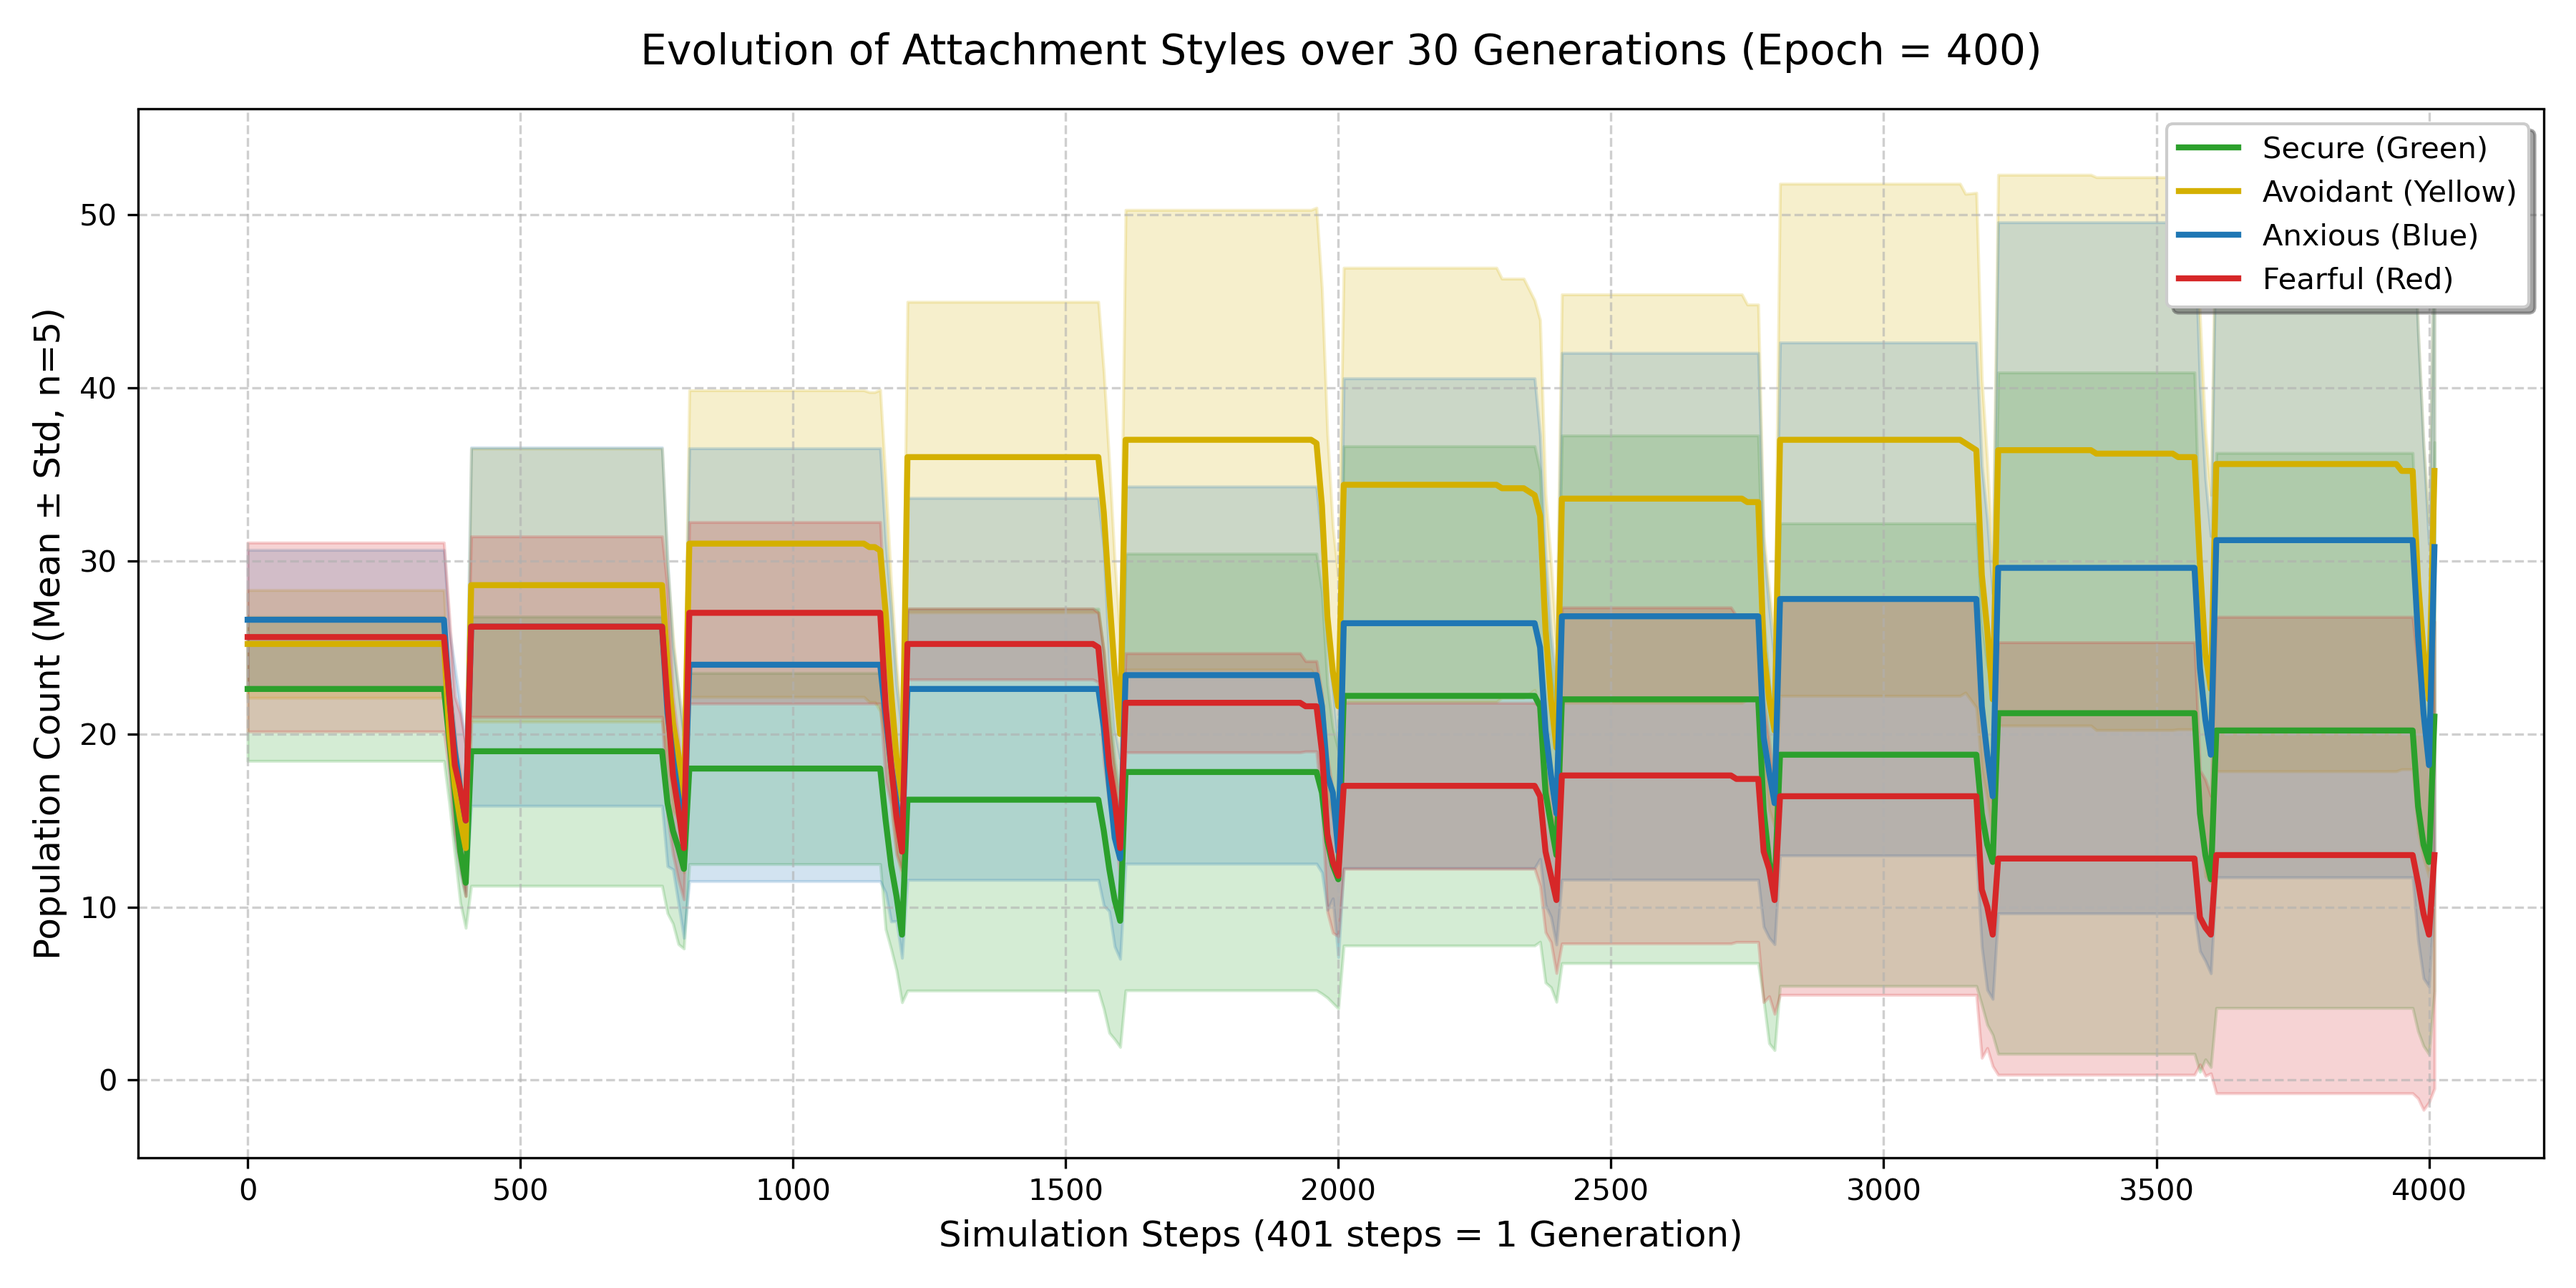
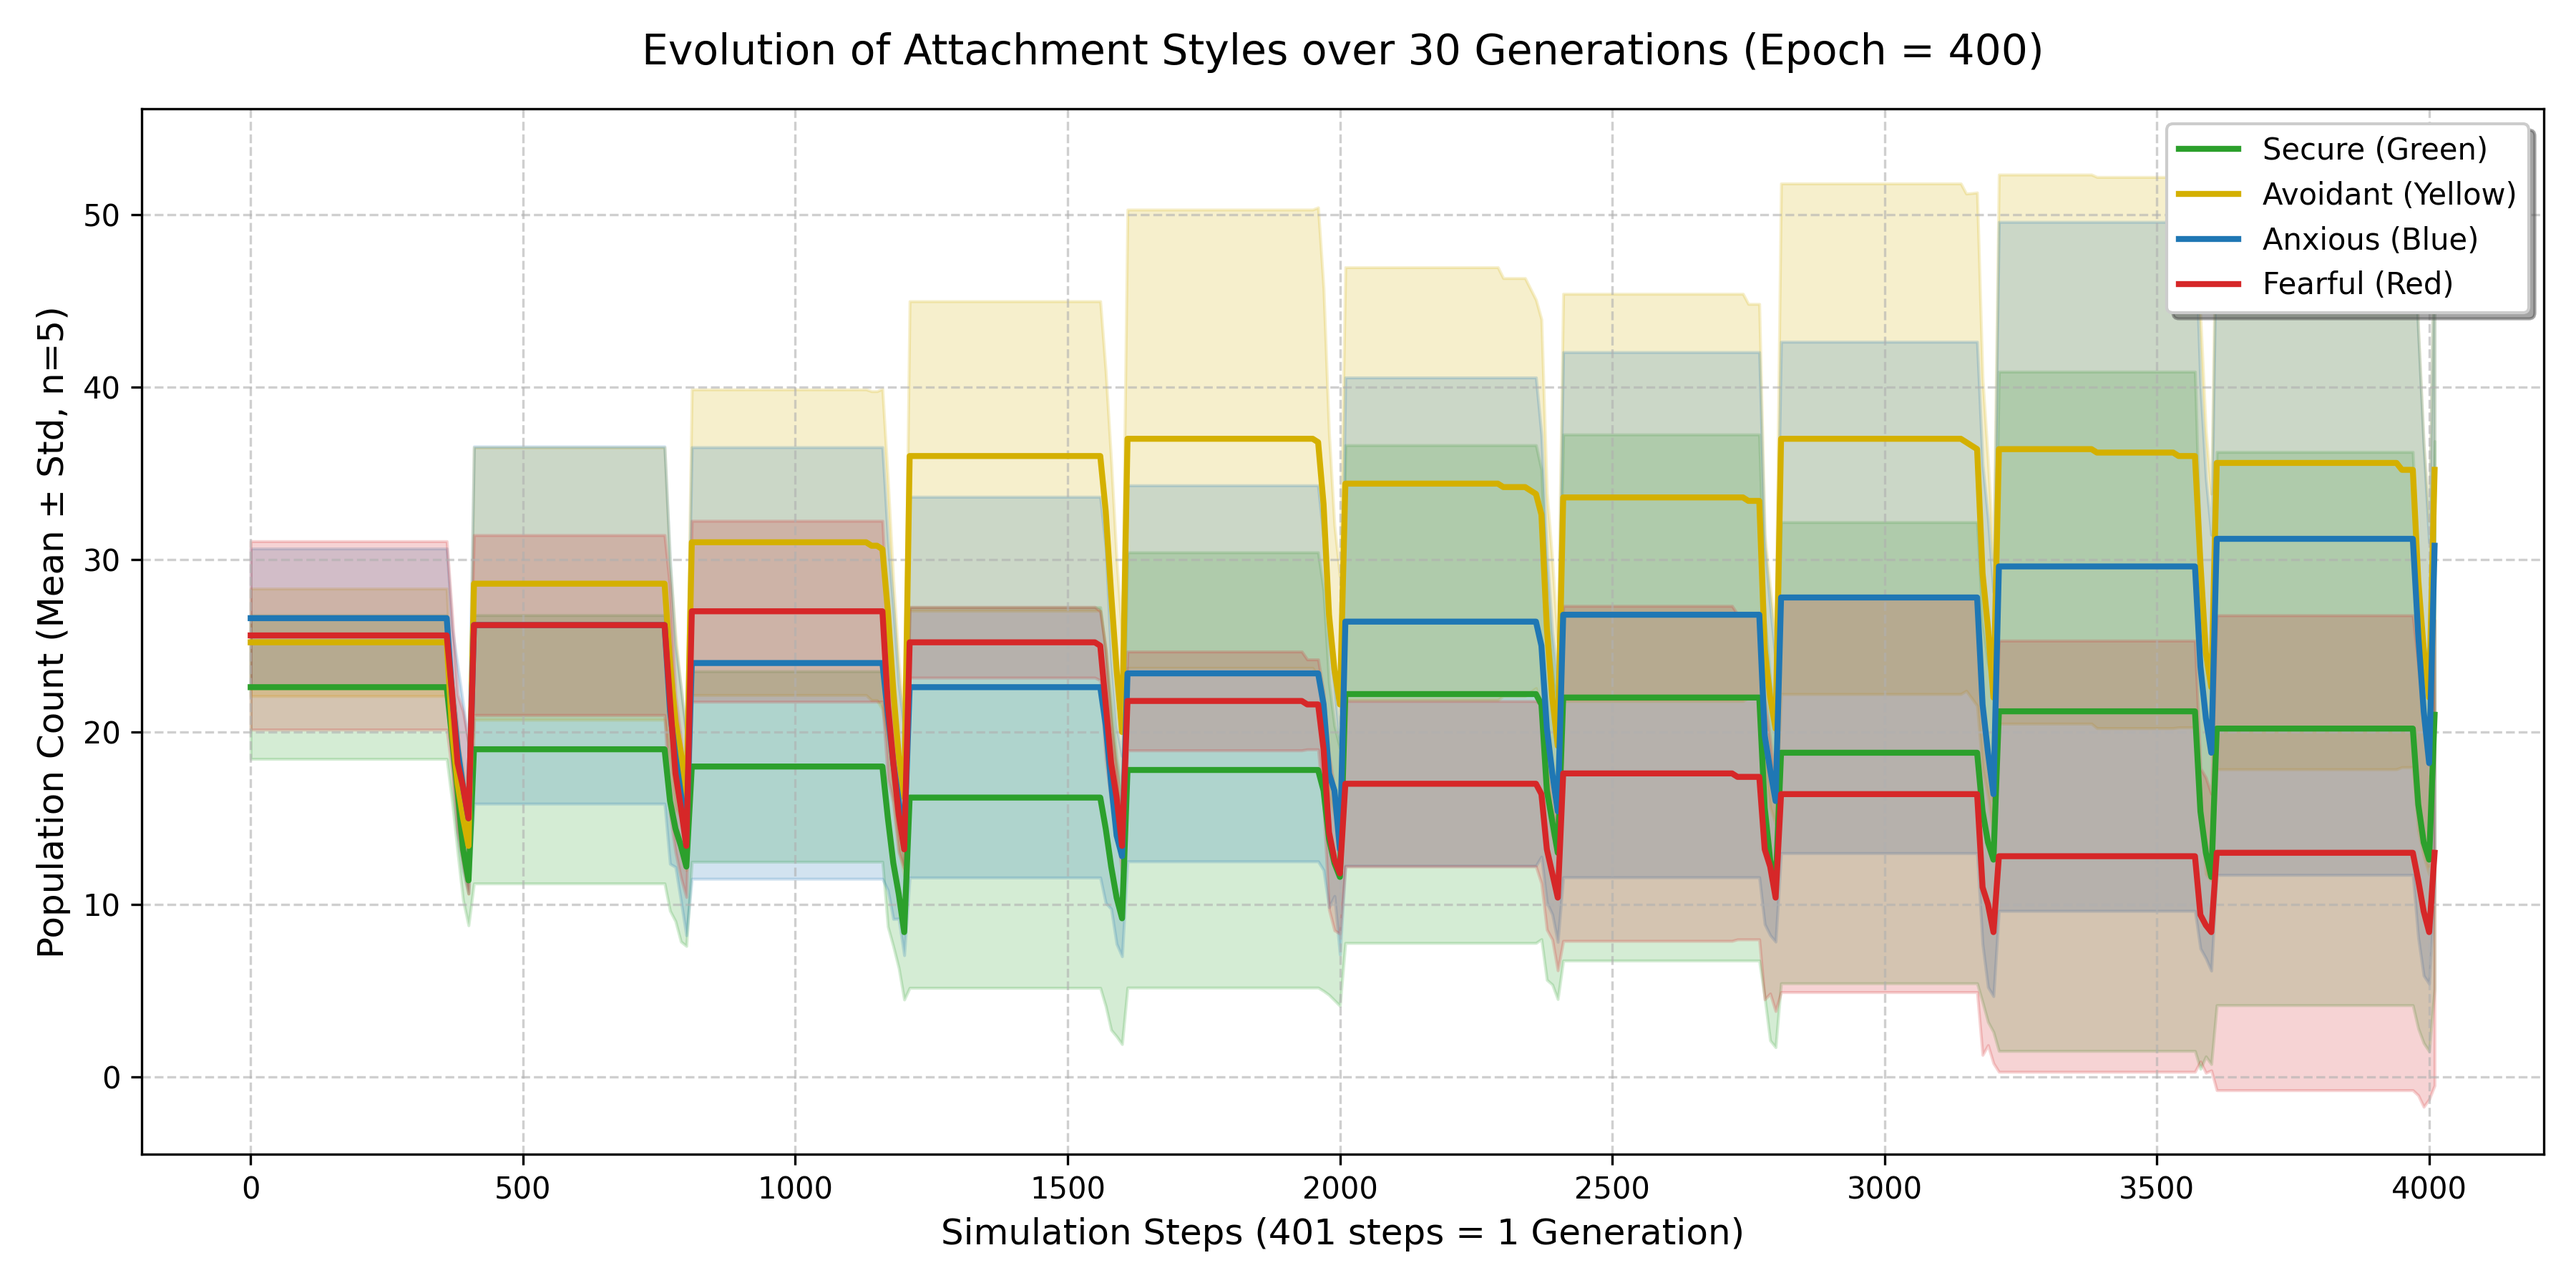
change exp5 to 10generations

diff --git a/exp5_generation30_epoch400/graph_epoch40.py b/exp5_generation30_epoch400/graph_epoch40.py
@@ -38,7 +38,7 @@ for col, color in colors_map.items():
                      color=color, alpha=0.2)
 
 # 5. 图表美化 👉 重点：标题改成 Epoch = 400
-plt.title('Evolution of Attachment Styles over 30 Generations (Epoch = 400)', fontsize=14, pad=15)
+plt.title('Evolution of Attachment Styles over 10 Generations (Epoch = 400)', fontsize=14, pad=15)
 plt.xlabel('Simulation Steps (401 steps = 1 Generation)', fontsize=12) # 注意 400 的代长是 401
 plt.ylabel(f'Population Count (Mean ± Std, n={n_runs})', fontsize=12)
 
@@ -47,6 +47,6 @@ plt.grid(True, linestyle='--', alpha=0.6)
 plt.tight_layout()
 
 # 保存新图
-plt.savefig('evolution_curve_30gens_epoch400.png', dpi=300)
-print("图表已成功保存为 'evolution_curve_30gens_epoch400.png'")
+plt.savefig('evolution_curve_10gens_epoch400.png', dpi=300)
+print("图表已成功保存为 'evolution_curve_10gens_epoch400.png'")
 plt.show()
